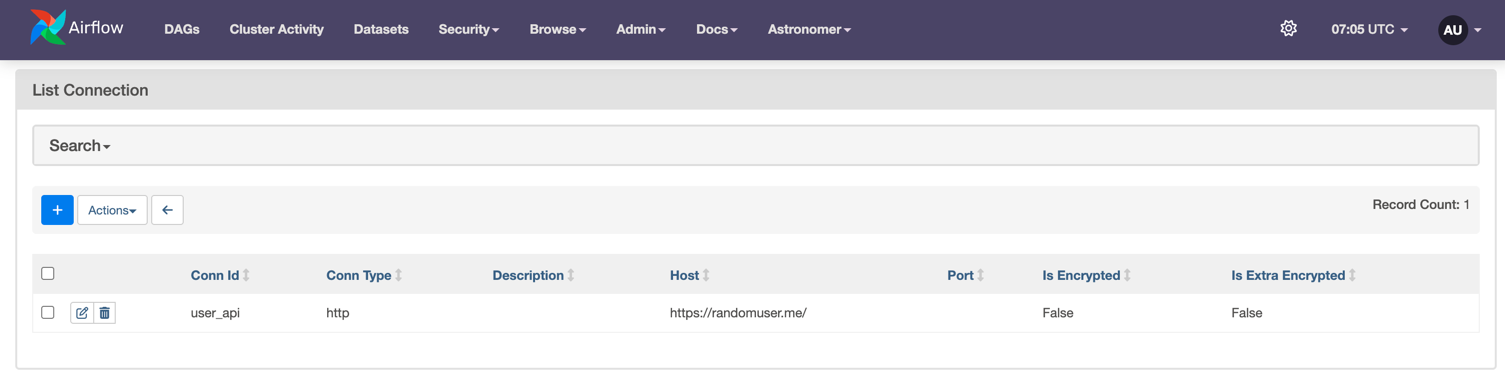
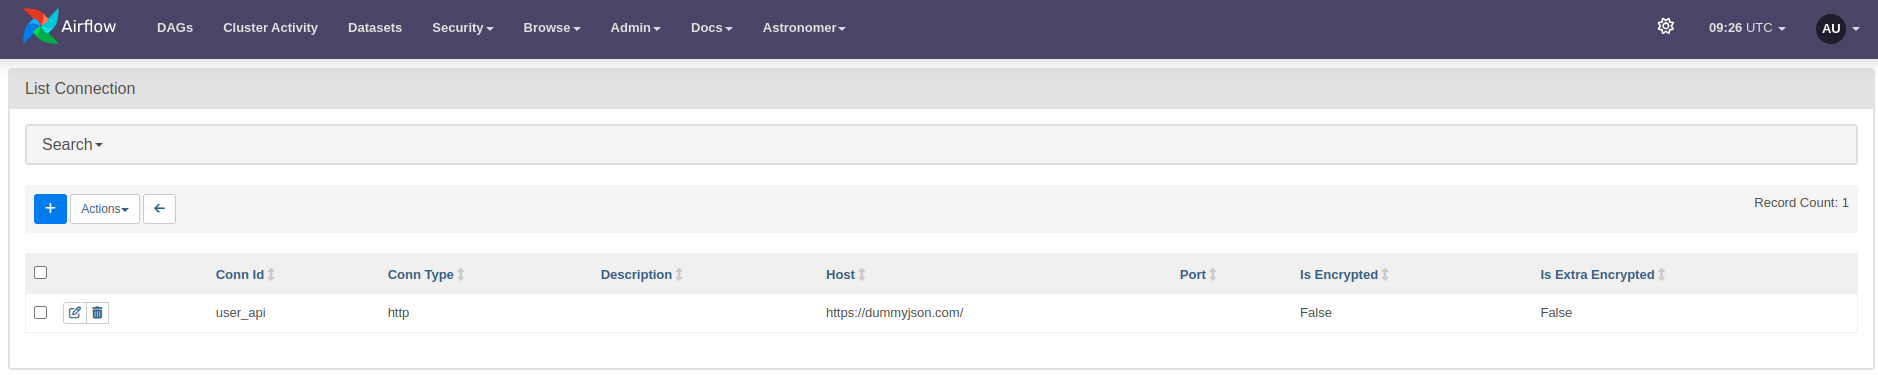
update

diff --git a/00-setup/airflow/dags/user_processing.py b/00-setup/airflow/dags/user_processing.py
@@ -12,13 +12,14 @@ from pandas import json_normalize
 
 def _process_user(ti):
     user = ti.xcom_pull(task_ids="extract_user")
-    user = user['results'][0]
+    user = user['users'][0]
     processed_user = json_normalize({
-        'firstname': user['name']['first'],
-        'lastname': user['name']['last'],
-        'country': user['location']['country'],
-        'username': user['login']['username'],
-        'password': user['login']['password'],
+        'id': user['id'],
+        'firstname': user['firstName'],
+        'lastname': user['lastName'],
+        'country': user['address']['country'],
+        'username': user['username'],
+        'password': user['password'],
         'email': user['email']
     })
     processed_user.to_csv('/tmp/processed_user.csv', index=False, header=False)
@@ -40,13 +41,13 @@ with DAG('user_processing', start_date=datetime(2025, 1, 1), schedule_interval='
     is_api_available = HttpSensor(
         task_id='is_api_available',
         http_conn_id='user_api',
-        endpoint='api/'
+        endpoint='users?limit=10'
     )
 
     extract_user = HttpOperator(
         task_id='extract_user',
         http_conn_id='user_api',
-        endpoint='api/',
+        endpoint='users?limit=10',
         method='GET',
         response_filter=lambda response: json.loads(response.text),
         log_response=True
@@ -63,6 +64,7 @@ with DAG('user_processing', start_date=datetime(2025, 1, 1), schedule_interval='
         database='postgres',
         sql='''
         CREATE TABLE IF NOT EXISTS users (
+            id BIGINT NOT NULL,
             firstname TEXT NOT NULL,
             lastname TEXT NOT NULL,
             country TEXT NOT NULL,

diff --git a/05-hook/user_processing.py b/05-hook/user_processing.py
@@ -12,13 +12,14 @@ from pandas import json_normalize
 
 def _process_user(ti):
     user = ti.xcom_pull(task_ids="extract_user")
-    user = user['results'][0]
+    user = user['users'][0]
     processed_user = json_normalize({
-        'firstname': user['name']['first'],
-        'lastname': user['name']['last'],
-        'country': user['location']['country'],
-        'username': user['login']['username'],
-        'password': user['login']['password'],
+        'id': user['id'],
+        'firstname': user['firstName'],
+        'lastname': user['lastName'],
+        'country': user['address']['country'],
+        'username': user['username'],
+        'password': user['password'],
         'email': user['email']
     })
     processed_user.to_csv('/tmp/processed_user.csv', index=False, header=False)
@@ -40,13 +41,13 @@ with DAG('user_processing', start_date=datetime(2025, 1, 1), schedule_interval='
     is_api_available = HttpSensor(
         task_id='is_api_available',
         http_conn_id='user_api',
-        endpoint='api/'
+        endpoint='users?limit=10'
     )
 
     extract_user = HttpOperator(
         task_id='extract_user',
         http_conn_id='user_api',
-        endpoint='api/',
+        endpoint='users?limit=10',
         method='GET',
         response_filter=lambda response: json.loads(response.text),
         log_response=True
@@ -63,6 +64,7 @@ with DAG('user_processing', start_date=datetime(2025, 1, 1), schedule_interval='
         database='postgres',
         sql='''
         CREATE TABLE IF NOT EXISTS users (
+            id BIGINT NOT NULL,
             firstname TEXT NOT NULL,
             lastname TEXT NOT NULL,
             country TEXT NOT NULL,

diff --git a/04-sensor/user_processing.py b/04-sensor/user_processing.py
@@ -10,13 +10,14 @@ from pandas import json_normalize
 
 def _process_user(ti):
     user = ti.xcom_pull(task_ids="extract_user")
-    user = user['results'][0]
+    user = user['users'][0]
     processed_user = json_normalize({
-        'firstname': user['name']['first'],
-        'lastname': user['name']['last'],
-        'country': user['location']['country'],
-        'username': user['login']['username'],
-        'password': user['login']['password'],
+        'id': user['id'],
+        'firstname': user['firstName'],
+        'lastname': user['lastName'],
+        'country': user['address']['country'],
+        'username': user['username'],
+        'password': user['password'],
         'email': user['email']
     })
     processed_user.to_csv('/tmp/processed_user.csv', index=False, header=False)
@@ -26,13 +27,13 @@ with DAG('user_processing', start_date=datetime(2025, 1, 1), schedule_interval='
     is_api_available = HttpSensor(
         task_id='is_api_available',
         http_conn_id='user_api',
-        endpoint='api/'
+        endpoint='users?limit=10'
     )
 
     extract_user = HttpOperator(
         task_id='extract_user',
         http_conn_id='user_api',
-        endpoint='api/',
+        endpoint='users?limit=10',
         method='GET',
         response_filter=lambda response: json.loads(response.text),
         log_response=True

diff --git a/03-python-operator/user_processing.py b/03-python-operator/user_processing.py
@@ -9,13 +9,14 @@ from pandas import json_normalize
 
 def _process_user(ti):
     user = ti.xcom_pull(task_ids="extract_user")
-    user = user['results'][0]
+    user = user['users'][0]
     processed_user = json_normalize({
-        'firstname': user['name']['first'],
-        'lastname': user['name']['last'],
-        'country': user['location']['country'],
-        'username': user['login']['username'],
-        'password': user['login']['password'],
+        'id': user['id'],
+        'firstname': user['firstName'],
+        'lastname': user['lastName'],
+        'country': user['address']['country'],
+        'username': user['username'],
+        'password': user['password'],
         'email': user['email']
     })
     processed_user.to_csv('/tmp/processed_user.csv', index=False, header=False)
@@ -25,7 +26,7 @@ with DAG('user_processing', start_date=datetime(2025, 1, 1), schedule_interval='
     extract_user = HttpOperator(
         task_id='extract_user',
         http_conn_id='user_api',
-        endpoint='api/',
+        endpoint='users?limit=10',
         method='GET',
         response_filter=lambda response: json.loads(response.text),
         log_response=True

diff --git a/02-connection-and-operator/user_processing.py b/02-connection-and-operator/user_processing.py
@@ -8,7 +8,7 @@ with DAG('user_processing', start_date=datetime(2025, 1, 1), schedule_interval='
     extract_user = HttpOperator(
         task_id='extract_user',
         http_conn_id='user_api',
-        endpoint='api/',
+        endpoint='users?limit=10',
         method='GET',
         response_filter=lambda response: json.loads(response.text),
         log_response=True

diff --git a/03-python-operator/README.md b/03-python-operator/README.md
@@ -36,13 +36,9 @@ cat /tmp/processed_user.csv
 
 Kết quả như sau:
 
-```csv
-Nadia,Lucas,Switzerland,yellowelephant443,dirty1,nadia.lucas@example.com
-```
+![](img/processed_user.png)
 
 ## 3. Yêu cầu
-
-Thay endpoint `api/` thành `api/?results=50` để response trả về danh sách gồm 50 users.
 
 Sửa hàm `_process_user` để xử lý toàn bộ danh sách users trả về thay vì chỉ xử lý user đầu tiên.
 

diff --git a/02-connection-and-operator/README.md b/02-connection-and-operator/README.md
@@ -14,7 +14,7 @@ Thêm vào trong phần `airflow.connections` thông tin http connection như sa
 ```
 - conn_id: user_api
   conn_type: http
-  conn_host: https://randomuser.me/
+  conn_host: https://dummyjson.com/
   conn_schema:
   conn_login:
   conn_password:
